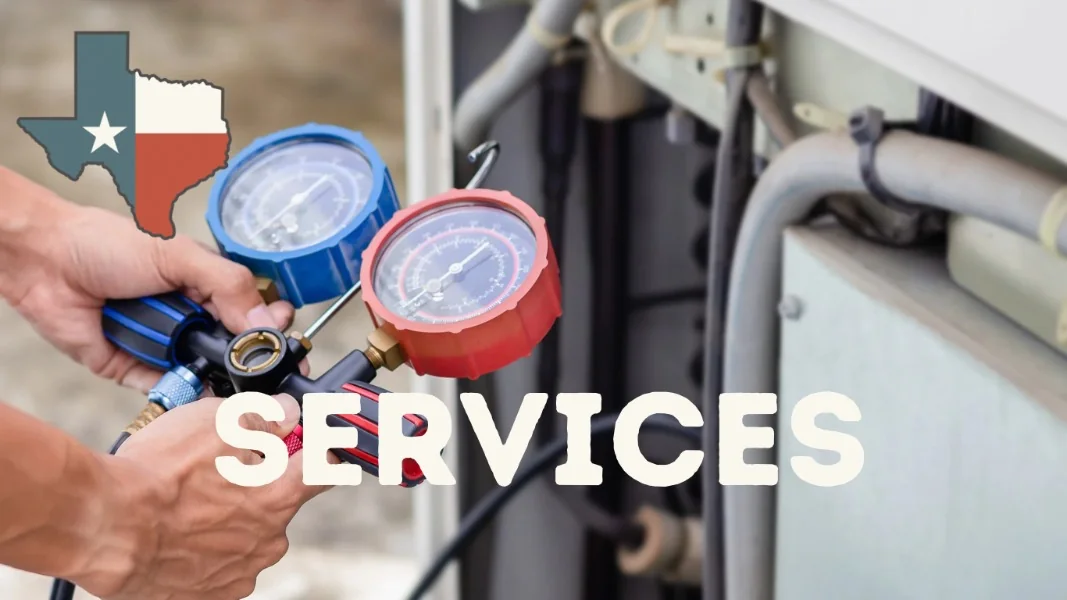
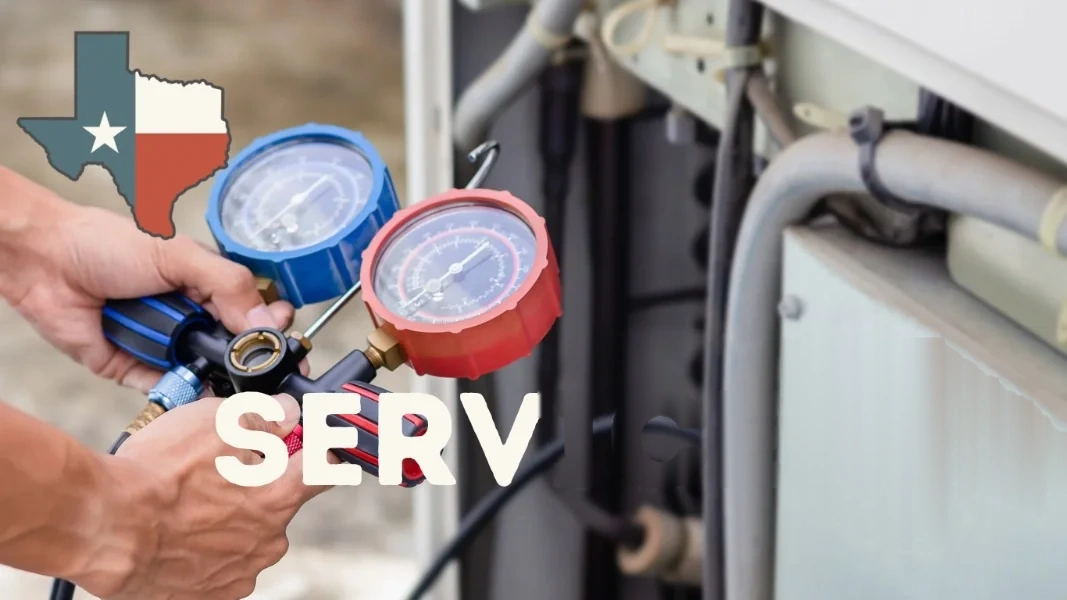
Fix hero image placement on top, layout alignment, and clean transparent assets

Changed region(s): [[0.4948, 0.63, 0.8351, 0.81], [0.866, 0.57, 0.9897, 0.81]]

diff --git a/index.html b/index.html
@@ -84,7 +84,6 @@
       height: 58px;
       object-fit: contain;
       object-position: center;
-      mix-blend-mode: multiply;
     }
     .brand-fallback {
       display: none;
@@ -140,12 +139,7 @@
       right: -150px;
       top: -180px;
     }
-    .hero-grid {
-      display: grid;
-      grid-template-columns: 1.02fr .98fr;
-      align-items: center;
-      gap: 60px;
-    }
+
     .eyebrow {
       display: inline-flex;
       align-items: center;
@@ -209,12 +203,23 @@
       flex: 0 0 20px;
     }
 
-    .hero-visual { position: relative; min-height: 590px; }
+    .hero-grid {
+      display: grid;
+      grid-template-columns: 1.05fr .95fr;
+      align-items: center;
+      gap: 50px;
+    }
+
+    .hero-visual {
+      position: relative;
+      width: 100%;
+    }
     .photo-shell {
-      position: absolute;
-      inset: 0 22px 38px 0;
+      position: relative;
+      width: 100%;
+      height: 520px;
       overflow: hidden;
-      border-radius: 34px;
+      border-radius: 32px;
       background:
         linear-gradient(145deg, rgba(93,124,134,.2), rgba(168,79,63,.12)),
         #d8e0de;
@@ -224,26 +229,28 @@
       width: 100%;
       height: 100%;
       object-fit: cover;
-      object-position: center;
+      object-position: center 5%;
+      transform: scale(1.38);
+      transform-origin: 45% 15%;
     }
     .photo-shell:after {
       content: "";
       position: absolute;
       inset: 0;
-      background: linear-gradient(to top, rgba(21,39,43,.46), rgba(21,39,43,0) 48%);
+      background: linear-gradient(to top, rgba(21,39,43,.45), rgba(21,39,43,0) 45%);
       pointer-events: none;
     }
     .floating-card {
       position: absolute;
-      left: -28px;
-      bottom: 0;
-      width: min(340px, 80%);
-      padding: 22px;
-      border: 1px solid rgba(255,255,255,.72);
-      border-radius: 22px;
+      left: 20px;
+      bottom: 20px;
+      width: min(340px, calc(100% - 40px));
+      padding: 20px 22px;
+      border: 1px solid rgba(255,255,255,.8);
+      border-radius: 20px;
       background: rgba(255,255,255,.94);
       backdrop-filter: blur(14px);
-      box-shadow: 0 18px 50px rgba(24,37,40,.16);
+      box-shadow: 0 16px 40px rgba(24,37,40,.18);
     }
     .floating-card .label {
       color: var(--red);
@@ -252,8 +259,8 @@
       text-transform: uppercase;
       letter-spacing: .12em;
     }
-    .floating-card strong { display: block; margin-top: 6px; font-size: 19px; line-height: 1.35; color: var(--deep); }
-    .floating-card p { margin: 7px 0 0; color: var(--muted); font-size: 13px; }
+    .floating-card strong { display: block; margin-top: 6px; font-size: 17px; line-height: 1.35; color: var(--deep); }
+    .floating-card p { margin: 6px 0 0; color: var(--muted); font-size: 13px; line-height: 1.45; }
 
     .trust-strip {
       padding: 0 0 76px;
@@ -532,11 +539,29 @@
 
     @media (max-width: 980px) {
       nav { display: none; }
-      .hero-grid, .story-grid, .choice-grid, .area-grid, .contact-shell { grid-template-columns: 1fr; }
-      .hero { padding-top: 48px; }
-      .hero-visual { min-height: 520px; margin-top: 10px; }
-      .photo-shell { right: 0; }
-      .floating-card { left: 18px; }
+      .hero-grid { display: flex; flex-direction: column; }
+      .hero { padding-top: 36px; }
+      .hero-visual {
+        order: -1;
+        width: 100%;
+        margin-bottom: 24px;
+      }
+      .photo-shell {
+        width: 100%;
+        height: auto;
+        aspect-ratio: 16 / 10;
+        max-height: 420px;
+        border-radius: 26px;
+      }
+      .floating-card {
+        position: absolute;
+        left: 16px;
+        bottom: 16px;
+        width: min(320px, calc(100% - 32px));
+        padding: 16px 18px;
+        border-radius: 18px;
+      }
+      .story-grid, .choice-grid, .area-grid, .contact-shell { grid-template-columns: 1fr; }
       .trust-grid { grid-template-columns: 1fr 1fr; }
       .trust-item:nth-child(2) { border-right: 0; }
       .trust-item:nth-child(-n+2) { border-bottom: 1px solid var(--line); }
@@ -555,14 +580,28 @@
       .brand img { width: 96px; height: 52px; }
       .nav-actions .btn-ghost { display: none; }
       .nav-actions .btn-primary { min-height: 42px; padding-inline: 15px; }
-      h1 { font-size: clamp(43px, 13vw, 62px); }
+      h1 { font-size: clamp(40px, 11vw, 54px); }
       .hero-copy > p { font-size: 16px; }
       .hero-actions { display: grid; grid-template-columns: 1fr 1fr; }
       .hero-actions .btn { padding: 0 12px; }
       .hero-proof { display: grid; grid-template-columns: 1fr 1fr; gap: 12px; }
-      .hero-visual { min-height: 430px; }
-      .photo-shell { inset: 0 0 30px 0; border-radius: 26px; }
-      .floating-card { width: calc(100% - 32px); left: 16px; padding: 17px; }
+      .hero-visual { position: relative; margin-bottom: 24px; }
+      .photo-shell { aspect-ratio: 16 / 11.5; border-radius: 22px; }
+      .floating-card {
+        position: absolute;
+        left: 12px;
+        right: 12px;
+        bottom: 12px;
+        width: auto;
+        margin-top: 0;
+        padding: 13px 15px;
+        border-radius: 16px;
+        background: rgba(255, 255, 255, 0.94);
+        backdrop-filter: blur(12px);
+        box-shadow: 0 10px 25px rgba(24, 37, 40, 0.16);
+      }
+      .floating-card strong { font-size: 14.5px; margin-top: 3px; }
+      .floating-card p { font-size: 12px; margin-top: 3px; }
       .trust-strip { padding-bottom: 52px; }
       .trust-grid { grid-template-columns: 1fr; }
       .trust-item, .trust-item:nth-child(2) { border-right: 0; border-bottom: 1px solid var(--line); }
@@ -735,6 +774,7 @@
             <span class="proof-item"><span class="check">✓</span> Flat-rate pricing</span>
             <span class="proof-item"><span class="check">✓</span> Licensed &amp; insured</span>
             <span class="proof-item"><span class="check">✓</span> Residential &amp; commercial</span>
+          </div>
           
           <div class="google-badge-row" aria-label="5.0 Star Rating from Google Reviews">
             <div class="google-pill">
@@ -749,7 +789,6 @@
             </div>
             <span>Based on verified North Texas Google Reviews</span>
           </div>
-
         </div>
 
         <div class="hero-visual" aria-label="HVAC service photo">
